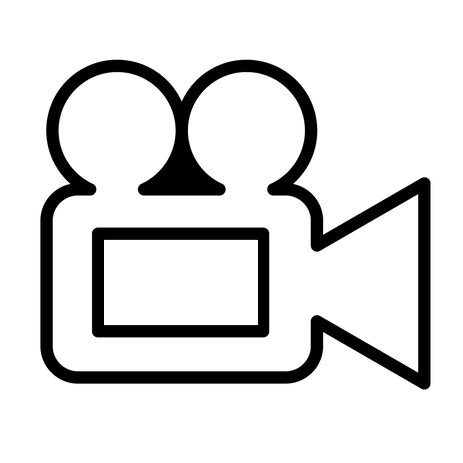
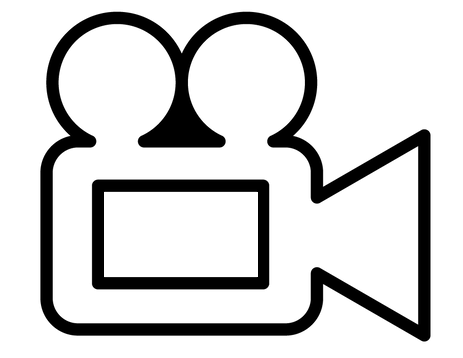
Add files via upload

diff --git a/video.html b/video.html
@@ -42,7 +42,7 @@
         font: 14pt/1.4em Georgia;
         width: 768px;
         margin: 24px auto;
-        padding-bottom: 96px;
+        padding-bottom: 18px;
     } img.float-left {
         width: 300px;
         float: left;
@@ -79,15 +79,17 @@
         text-align: center;
         margin: 6px auto;
     } #icons {
-        width: 860px;
+        width: 360px;
         margin: 72px auto;
         display: flex;
         justify-content: center;
     } .icon {
         width: 84px;
-        height: 84px;
+        height: auto;
         border: none;
         box-shadow: none;
+		display: block;
+		margin: 0 auto;
     } .icon:hover {
         background: lightgreen;
         transition: background 0.5s;
@@ -99,7 +101,7 @@
         background: lightgreen;
         transition: background 0.5s;
     } figure {
-        width: 96px;
+        width: 124px;
     } figcaption {
         font: 12pt/1.8em Georgia;
         text-align: center;
@@ -123,7 +125,8 @@
         </ul>
         <h1>Hot Air Ballooning</h1>
         <p><img class="float-left" src="andre.jpg" />
-        According to Wikipedia, the first balloon flight carrying passengers was by brothers Joseph-Michel and Jacques-Etienne Montgolfier in Annonay, France, in 1873. Since then many have enjoyed sightseeing from the quiet, nearly wind-free heights afforded by hot air ballooning. (Banner photo by Daniela Cuevas and small photo by Andre Frueh, both on Unsplash.)</p>
+        According to Wikipedia, the first balloon flight carrying passengers was by brothers Joseph-Michel and Jacques-Etienne Montgolfier in Annonay, France, in 1873. Since then many have enjoyed sightseeing from the quiet, nearly wind-free heights afforded by hot air ballooning. (Banner photo by Daniela Cuevas and small photo by Andre Frueh, both on Unsplash.)<br/><br/>
+		Linked below is a 5-min. YouTube video by Mary Anne Buerano, GCM '21, on editing videos in Apple iMovie and Adobe Premiere.</p>
 		<h2>Code for Video</h2>
         <pre>&lt;video width="640" height="360" controls poster="poster-natgeo-balloons.jpg"&gt;</pre>
         <pre>&nbsp;&nbsp;&nbsp;&nbsp;&lt;source src="natgeo-balloons.mp4"&gt;</pre>
@@ -133,6 +136,10 @@
             <source src="natgeo-balloons.mp4">
         </video>
     <div id="icons">
+		<figure>
+			<img style="margin-top: 12px;" class="icon" src="thumb-youtube-video.jpg" />
+			<figcaption>YouTube Video</figcaption>
+		</figure>
         <figure>
         <a href="https://unlv.zoom.us/rec/share/jzbR8mZiwb3vLHONrqCq2-yLwdSivjLtQEdh2OoFv2q3tKnpqtBYl7dxo9TeFUFY.NhbQRCb7Tb4gDdc2?pwd=DP13tFtP9X6klJ1QkAAAIAAAAHI1Wk5y6hN17b-5XCeyZZYvFs64nAXwiclDdJTnClyEsJl2DUFlHYSNSRwAFLve9zAwMDAwNA" target="_blank">
         <img class="icon" src="icon-video.png" /></a>
